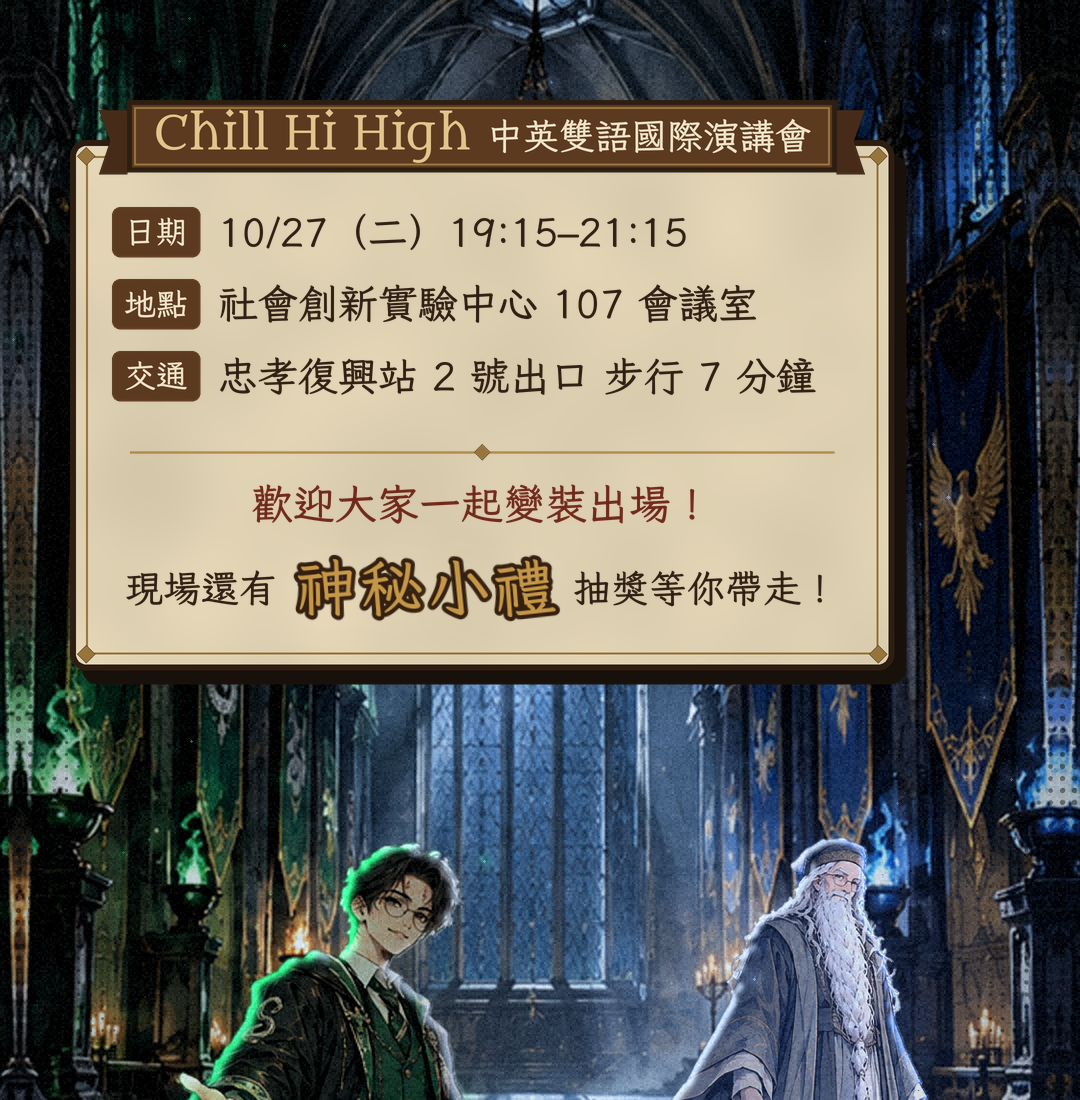
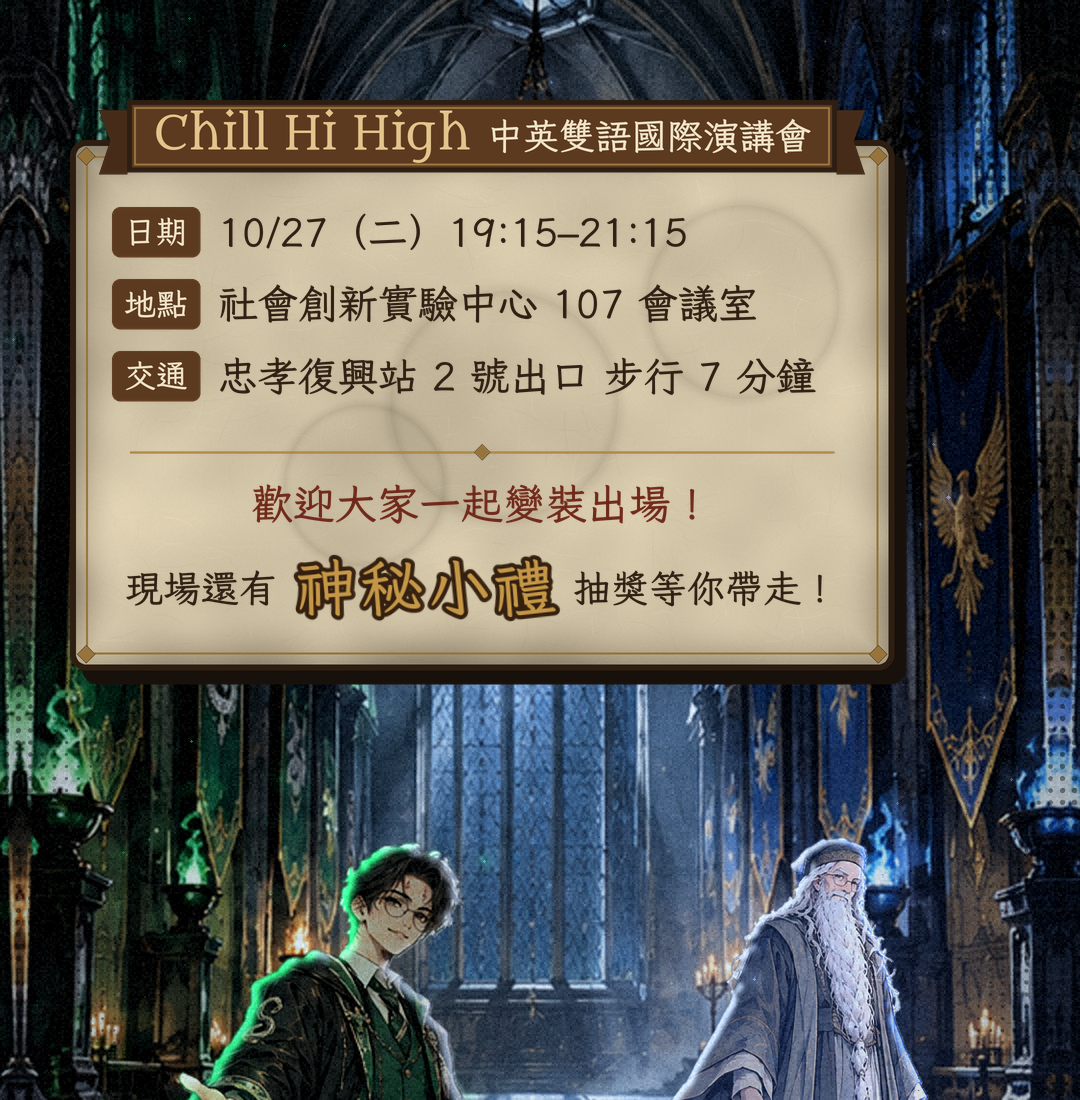
Harry x Dumbledore: parchment texture on the info card, font options
Claude-Session: https://claude.ai/code/session_01QnC8eb9g4FXk3ZnS3XmoUH

diff --git a/哈鄧/scripts/info_card.py b/哈鄧/scripts/info_card.py
@@ -37,8 +37,17 @@ CREAM = (240, 228, 200, 255)
 _L = None
 
 
+# Card typefaces: (file, variable-weight or None). English is only the club name.
+FONTS = {"en": ("Metamorphous-Regular.ttf", None), "zh": ("LXGWWenKaiTC-Bold.ttf", None)}
+
+
 def _font(name, size):
-    return ImageFont.truetype(str(scene.FONT_DIR / name), size)
+    """`name` is a role ("en"/"zh") from FONTS, or a font file name."""
+    file, weight = FONTS.get(name, (name, None))
+    f = ImageFont.truetype(str(scene.FONT_DIR / file), size)
+    if weight:
+        f.set_variation_by_axes([weight])
+    return f
 
 
 def _premul(img, ss):
@@ -51,6 +60,56 @@ def _premul(img, ss):
 def _bbox(arr):
     ys, xs = np.where(arr[..., 3] > 0.04)
     return (int(xs.min()), int(ys.min()), int(xs.max()) + 1, int(ys.max()) + 1)
+
+
+def smoothstep_np(e0, e1, x):
+    k = np.clip((x - e0) / (e1 - e0), 0, 1)
+    return k * k * (3 - 2 * k)
+
+
+def _parchment_texture(rgb, box, ss):
+    """Aged parchment: blotches at two scales, paper fibres, faint water stains, darkened edges, grain.
+
+    Everything is a multiplier on the plain parchment colour, so it stays one muted sepia palette.
+    """
+    x0, y0, x1, y1 = [int(v) for v in box]
+    h, w = y1 - y0, x1 - x0
+    rng = np.random.default_rng(7)
+
+    def noise(cells, sigma):
+        n = cv2.resize(rng.random(cells).astype(np.float32), (w, h), interpolation=cv2.INTER_CUBIC)
+        n = cv2.GaussianBlur(n, (0, 0), sigma)
+        return (n - n.min()) / (n.max() - n.min() + 1e-6)
+
+    tone = 1.0 - 0.14 * noise((6, 8), 40 * ss) - 0.10 * noise((18, 24), 12 * ss) - 0.05 * noise((60, 80), 3 * ss)
+    # Paper fibres: many short, slightly curved strokes, a touch darker or lighter than the sheet.
+    fib = np.zeros((h, w), np.float32)
+    for _ in range(int(w * h / (500 * ss * ss))):
+        fx, fy = rng.uniform(0, w), rng.uniform(0, h)
+        ang = rng.uniform(-0.5, 0.5) + (0 if rng.random() < 0.7 else np.pi / 2)
+        ln = rng.uniform(10, 46) * ss
+        bend = rng.uniform(-6, 6) * ss
+        pts = [(fx + math.cos(ang) * ln * u - math.sin(ang) * bend * math.sin(math.pi * u),
+                fy + math.sin(ang) * ln * u + math.cos(ang) * bend * math.sin(math.pi * u)) for u in np.linspace(0, 1, 6)]
+        cv2.polylines(fib, [np.int32(pts)], False, float(rng.choice([-1.0, 1.0]) * rng.uniform(0.4, 1.0)), 1, cv2.LINE_AA)
+    tone += 0.10 * cv2.GaussianBlur(fib, (0, 0), 0.7)
+    # Faint water stains: soft rings with a darker rim.
+    yy, xx = np.mgrid[0:h, 0:w].astype(np.float32)
+    for _ in range(3):
+        cx, cy, r = rng.uniform(0.15, 0.85) * w, rng.uniform(0.2, 0.8) * h, rng.uniform(60, 130) * ss
+        d = np.sqrt((xx - cx) ** 2 + (yy - cy) ** 2) / r
+        tone -= 0.03 * np.exp(-((d - 1) / 0.10) ** 2) + 0.02 * smoothstep_np(1.0, 0.6, d)
+    # Edges darkened and uneven, like handled old paper.
+    edge = np.minimum.reduce([xx, w - 1 - xx, yy, h - 1 - yy]) / (55 * ss)
+    edge = np.clip(edge + 0.35 * (noise((10, 14), 10 * ss) - 0.5), 0, 1)
+    tone *= 0.72 + 0.28 * (1 - (1 - edge) ** 2)
+    tone += 0.035 * (rng.random((h, w)).astype(np.float32) - 0.5)  # fine grain
+    out = rgb.copy()
+    out[y0:y1, x0:x1] = rgb[y0:y1, x0:x1] * np.clip(tone, 0.55, 1.08)[..., None]
+    # A slight warm-brown cast in the darker areas keeps the ageing sepia, not grey.
+    dark = np.clip(1 - tone, 0, 1)[..., None]
+    out[y0:y1, x0:x1] = out[y0:y1, x0:x1] * (1 - 0.25 * dark) + 0.25 * dark * np.array((0.45, 0.30, 0.16), np.float32)
+    return np.clip(out, 0, 1)
 
 
 def _build():
@@ -73,18 +132,15 @@ def _build():
         k = 9 * ss
         d.polygon([(cx, cy - k), (cx + k, cy), (cx, cy + k), (cx - k, cy)], fill=GOLD, outline=INK)
     body = np.asarray(im).astype(np.float32) / 255
-    # Aged-paper mottling, only on the parchment.
-    rng = np.random.default_rng(3)
-    n = cv2.resize(rng.random((40, 30)).astype(np.float32), (W * ss, H * ss), interpolation=cv2.INTER_CUBIC)
-    n = cv2.GaussianBlur(n, (0, 0), 30 * ss)
-    paper = (np.abs(body[..., :3] - np.array(PARCHMENT[:3]) / 255).sum(axis=2) < 0.02)[..., None]
-    body[..., :3] = np.where(paper, body[..., :3] * (0.9 + 0.12 * n[..., None]), body[..., :3])
+    paper = (np.abs(body[..., :3] - np.array(PARCHMENT[:3]) / 255).sum(axis=2) < 0.02)
+    body[..., :3] = np.where(paper[..., None], _parchment_texture(body[..., :3], (x0, y0, x1, y1), ss),
+                             body[..., :3])
     L["body"] = _premul(Image.fromarray((np.clip(body, 0, 1) * 255).astype(np.uint8), "RGBA"), ss)
 
     # Club ribbon across the top edge: leather-brown banner, gold rule, cream lettering.
     im, d = canvas()
-    en = _font("Metamorphous-Regular.ttf", 46 * ss)
-    zh = _font("LXGWWenKaiTC-Bold.ttf", 36 * ss)
+    en = _font("en", 46 * ss)
+    zh = _font("zh", 36 * ss)
     ew, zw = d.textlength(CLUB_NAME[0], font=en), d.textlength(CLUB_NAME[1], font=zh)
     gap = 16 * ss
     total = ew + gap + zw
@@ -104,8 +160,8 @@ def _build():
     L["ribbon_c"] = (cx / ss, cy / ss)
 
     # Info rows: coloured chip + ink text (each row is written in by a spark).
-    chip_f = _font("LXGWWenKaiTC-Bold.ttf", 32 * ss)
-    row_f = _font("LXGWWenKaiTC-Bold.ttf", 40 * ss)
+    chip_f = _font("zh", 32 * ss)
+    row_f = _font("zh", 40 * ss)
     chips = [LEATHER, LEATHER, LEATHER]
     rows = []
     for i, ((label, text), col) in enumerate(zip(INFO_LINES, chips)):
@@ -128,7 +184,7 @@ def _build():
     d.line((x0 + 60 * ss, dy, x1 - 60 * ss, dy), fill=GOLD, width=2 * ss)
     mx = (x0 + x1) / 2
     d.polygon([(mx, dy - 8 * ss), (mx + 8 * ss, dy), (mx, dy + 8 * ss), (mx - 8 * ss, dy)], fill=GOLD, outline=INK)
-    call_f = _font("LXGWWenKaiTC-Bold.ttf", 42 * ss)
+    call_f = _font("zh", 42 * ss)
     cw = d.textlength(INFO_CALL, font=call_f)
     cb = call_f.getbbox(INFO_CALL)
     d.text((mx - cw / 2, dy + 52 * ss - (cb[3] + cb[1]) / 2), INFO_CALL, font=call_f, fill=(110, 40, 26, 255))
@@ -137,8 +193,8 @@ def _build():
 
     # Prize line: ink lead/tail text plus four glowing gold characters.
     pre, prize, post = INFO_PRIZE
-    small = _font("LXGWWenKaiTC-Bold.ttf", 38 * ss)
-    big = _font("LXGWWenKaiTC-Bold.ttf", 60 * ss)
+    small = _font("zh", 38 * ss)
+    big = _font("zh", 60 * ss)
     char_w = 66 * ss
     pw, qw = d.textlength(pre, font=small), d.textlength(post, font=small)
     total = pw + 16 * ss + char_w * len(prize) + 16 * ss + qw
